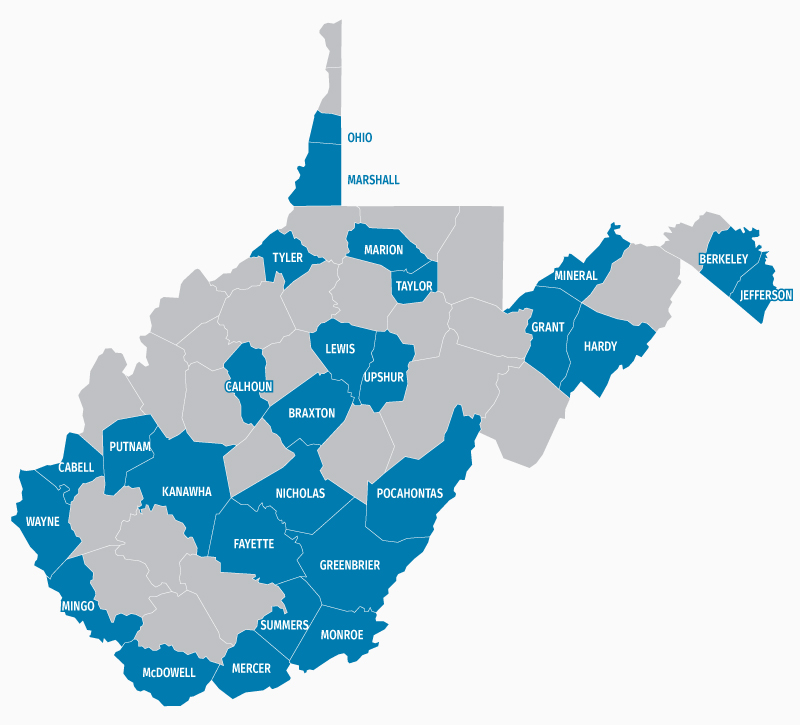
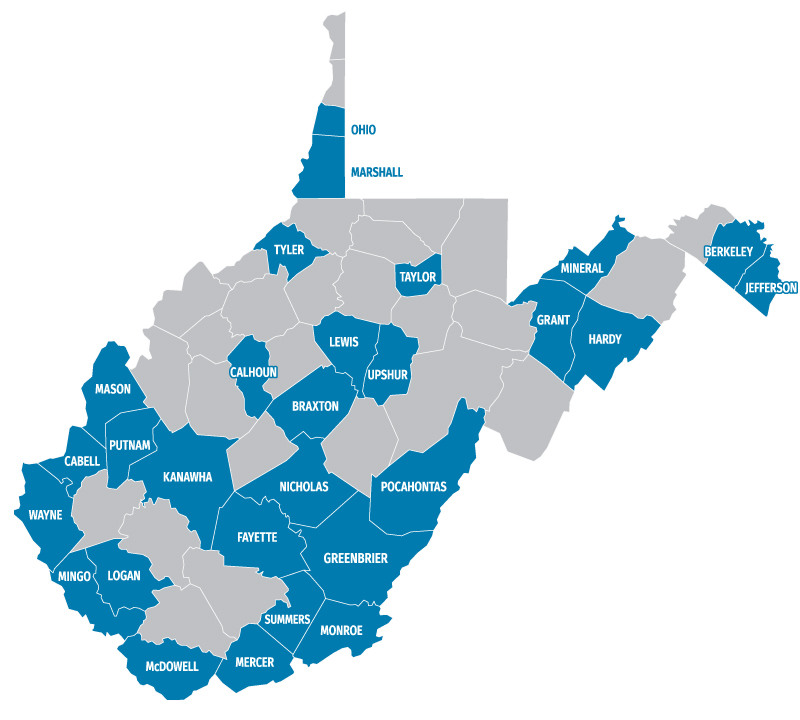
changed GYO pilot counties

diff --git a/src/grow-your-own.html b/src/grow-your-own.html
@@ -117,7 +117,7 @@ eleventyNavigation:
     </div>
 </section>
 
-{% set pilotCounties = '<p class="text-lg">Grow Your Own Programs are being piloted in the following counties:</p> <p class="text-md">Berkeley, Braxton, Cabell, Calhoun, Fayette, Grant, Greenbrier, Hardy, Jefferson, Kanawha, Lewis, Marion, Marshall, McDowell, Mercer, Mineral, Mingo, Monroe, Nicholas, Ohio, Pocahontas, Putnam, Summers, Taylor, Tyler, Upshur, and Wayne.</p>' %}
+{% set pilotCounties = '<p class="text-lg">Grow Your Own Programs are being piloted in the following counties:</p> <p class="text-md">Berkeley, Braxton, Cabell, Calhoun, Fayette, Grant, Greenbrier, Hardy, Jefferson, Kanawha, Lewis, Logan, Marshall, Mason, McDowell, Mercer, Mineral, Mingo, Monroe, Nicholas, Ohio, Pocahontas, Putnam, Summers, Taylor, Tyler, Upshur, and Wayne.</p>' %}
 <section class="border-t py-8">
     <div class="container max-w-6xl">
     <div class="block md:grid md:grid-cols-5 gap-x-default">
